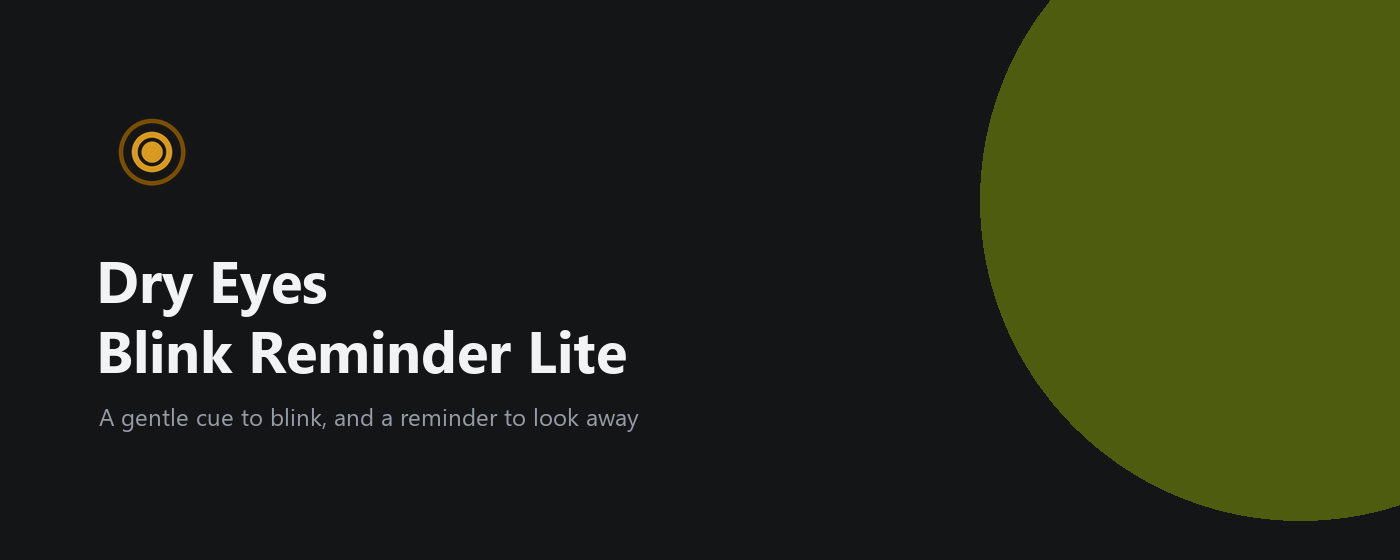
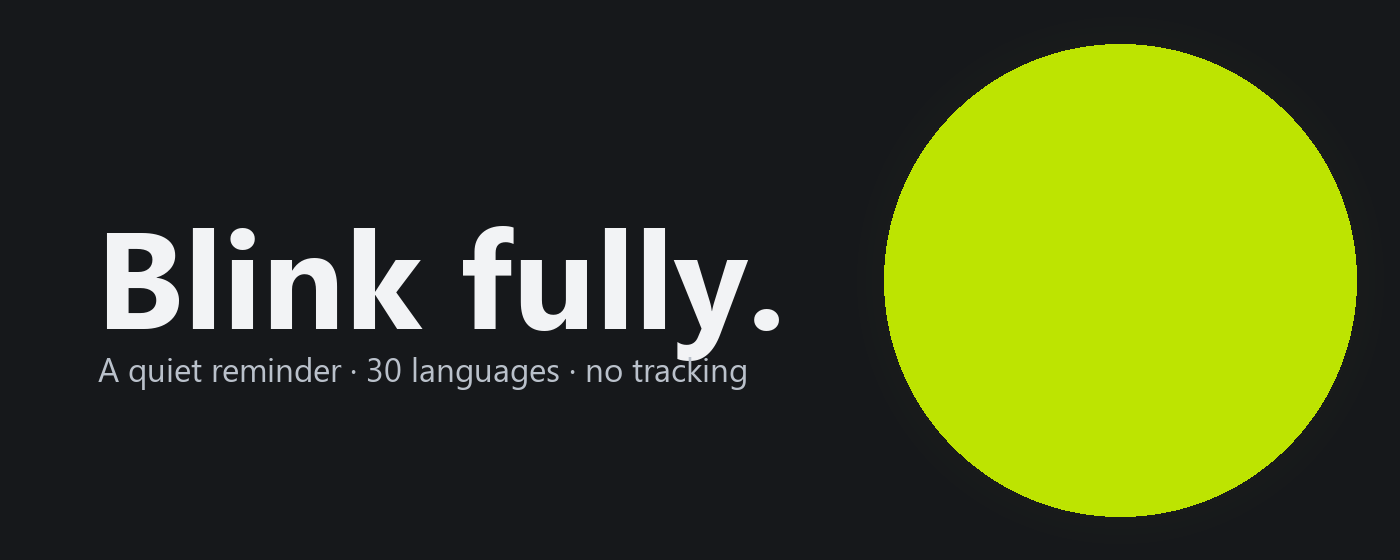
Store tiles: the cue itself, large, on a dark field
The old tile was a small amber ring and small grey text on dark -- at the
size a Store list actually shows it, nothing. Competing listings use a
bright field, a big mark and one promise, and they are right to.

So the tile is now the product: a lime disc running off the edge, the
colour nothing else in the category uses, with "Blink fully." beside it --
the line the Store description already opens on. The Store prints the app's
name next to the tile, so the tile does not repeat it and can sell instead.

The small tile takes the short subtitle and the marquee the longer one,
because the small one is read at about half size. fit() now refuses to
shrink text below a floor rather than quietly squeezing it into the disc.

diff --git a/store/make_chrome_assets.py b/store/make_chrome_assets.py
@@ -150,38 +150,74 @@ for name, word, y in SHOTS:
 for tmp in SOURCE.values():
     os.remove(os.path.join(OUT, tmp))
 
-# -- the 440x280 promo tile ---------------------------------------------------
+# -- the promo tiles ----------------------------------------------------------
+# These sit in a list of other extensions, at thumbnail size, next to a name
+# the Store prints for us -- so the tile does not have to repeat the name. It
+# has to catch the eye and make one promise. The cue itself does the first
+# job: a lime circle on a dark field is what the product actually looks like,
+# and nothing else in the category looks like it.
 
 import blink_reminder                                  # noqa: E402
 
-tile = Image.new("RGBA", (440, 280), DARK + (255,))
-icon = blink_reminder.app_icon(96).convert("RGBA")
-tile.paste(icon, (40, 58), icon)
-d = ImageDraw.Draw(tile)
-d.text((40, 174), "Dry Eyes", font=font(27, True), fill=TEXT)
-d.text((40, 206), "Blink Reminder Lite", font=font(27, True), fill=TEXT)
-d.text((42, 244), "A gentle cue to blink", font=font(15), fill=MUTED)
-save(tile, "promo-440x280.png")
+TILE_BG = (22, 24, 27)
+LIME = (189, 228, 1)
 
-# -- the 1400x560 marquee tile ------------------------------------------------
-# Wide and mostly empty, because that is what a banner wants: the mark and
-# the name on the left, and on the right the cue itself at the strength it
-# really appears, running off the edge so it reads as something passing
-# across the screen rather than a logo.
-mq = Image.new("RGBA", (1400, 560), (20, 21, 23, 255))
-glow = Image.new("RGBA", mq.size, (0, 0, 0, 0))
-gd = ImageDraw.Draw(glow)
-gd.ellipse((980, -120, 1620, 520), fill=(189, 228, 1, 88))
-mq.alpha_composite(glow)
 
-icon = blink_reminder.app_icon(112).convert("RGBA")
-mq.paste(icon, (96, 96), icon)
-d = ImageDraw.Draw(mq)
-d.text((96, 240), "Dry Eyes", font=font(58, True), fill=TEXT)
-d.text((96, 310), "Blink Reminder Lite", font=font(58, True), fill=TEXT)
-d.text((99, 400), "A gentle cue to blink, and a reminder to look away",
-       font=font(24), fill=MUTED)
-save(mq, "marquee-1400x560.png")
+def fit(d, text, bold, want, room, floor=12):
+    """The largest size at or below `want` that keeps `text` inside `room`.
+
+    It stops at `floor` rather than shrinking indefinitely: text small enough
+    to fit anywhere is text nobody reads, so a line that will not fit is a
+    line to shorten, not to shrink.
+    """
+    size = want
+    f = font(size, bold)
+    while d.textlength(text, font=f) > room and size > floor:
+        size -= 2
+        f = font(size, bold)
+    if d.textlength(text, font=f) > room:
+        raise SystemExit("too long for a %dpx column: %r" % (room, text))
+    return f
+
+
+def tile(w, h, head, sub, dot_r, dot_c, pad):
+    card = Image.new("RGBA", (w, h), TILE_BG + (255,))
+
+    # The cue, drawn as the cue: a soft lime disc running off the right edge.
+    glow = Image.new("RGBA", card.size, (0, 0, 0, 0))
+    gd = ImageDraw.Draw(glow)
+    for i in range(18, 0, -1):
+        gd.ellipse((dot_c[0] - dot_r - i * 3, dot_c[1] - dot_r - i * 3,
+                    dot_c[0] + dot_r + i * 3, dot_c[1] + dot_r + i * 3),
+                   fill=LIME + (int(5 * (1 - i / 18.0) ** 2),))
+    gd.ellipse((dot_c[0] - dot_r, dot_c[1] - dot_r,
+                dot_c[0] + dot_r, dot_c[1] + dot_r), fill=LIME + (255,))
+    card.alpha_composite(glow)
+
+    d = ImageDraw.Draw(card)
+    room = dot_c[0] - dot_r - pad * 2
+    # Big, because the list shows these at about half size and a tile that
+    # has to be squinted at has already lost.
+    fh = fit(d, head, True, int(h * 0.26), room)
+    fs = fit(d, sub, False, int(h * 0.095), room, floor=int(h * 0.05))
+    gap = int(h * 0.055)
+    block = (fh.getbbox(head)[3] - fh.getbbox(head)[1]
+             + fs.getbbox(sub)[3] - fs.getbbox(sub)[1] + gap)
+    y = (h - block) // 2
+    d.text((pad, y), head, font=fh, fill=TEXT)
+    # Brighter than MUTED: at thumbnail size a low-contrast line is a smudge.
+    d.text((pad + 2, y + (fh.getbbox(head)[3] - fh.getbbox(head)[1]) + gap),
+           sub, font=fs, fill=(186, 193, 203))
+    return card
+
+
+# The small tile is read at about half size in a list, so it gets the short
+# line; the marquee has room for the differentiators.
+HEAD = "Blink fully."
+save(tile(440, 280, HEAD, "A quiet reminder.", 104, (356, 140), 34),
+     "promo-440x280.png")
+save(tile(1400, 560, HEAD, "A quiet reminder · 30 languages · no tracking",
+          236, (1120, 280), 96), "marquee-1400x560.png")
 
 # -- the 128x128 store icon ---------------------------------------------------
 # The Store reads this from the package itself, so this copy exists only for a
